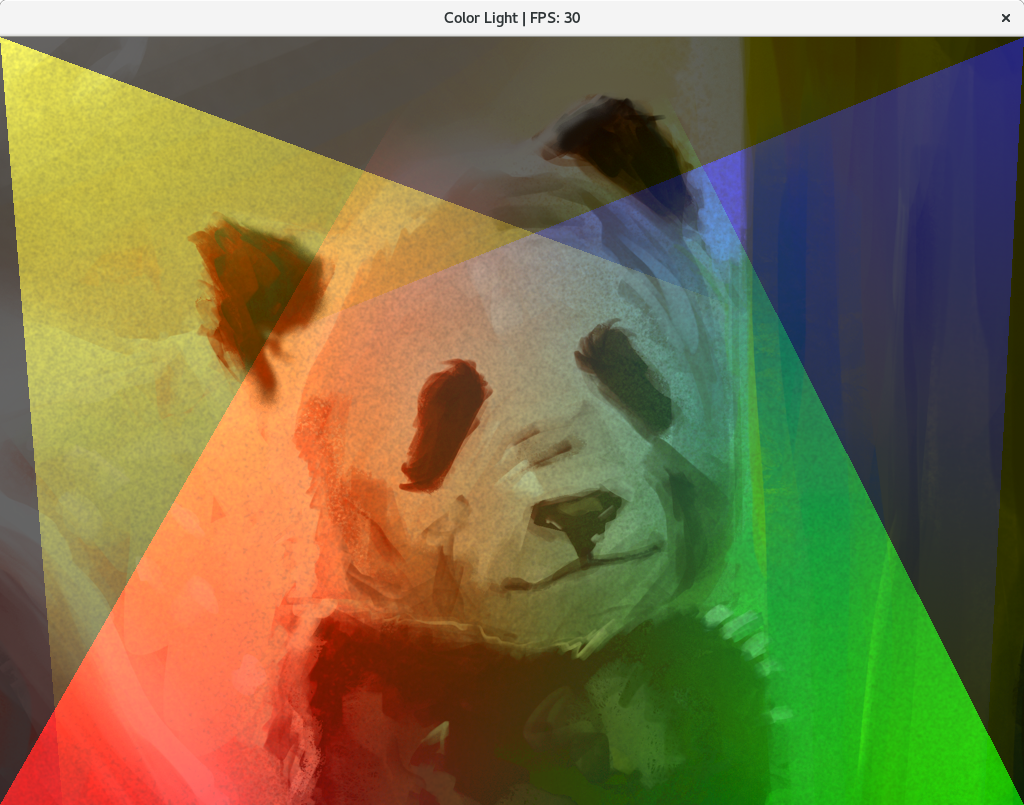
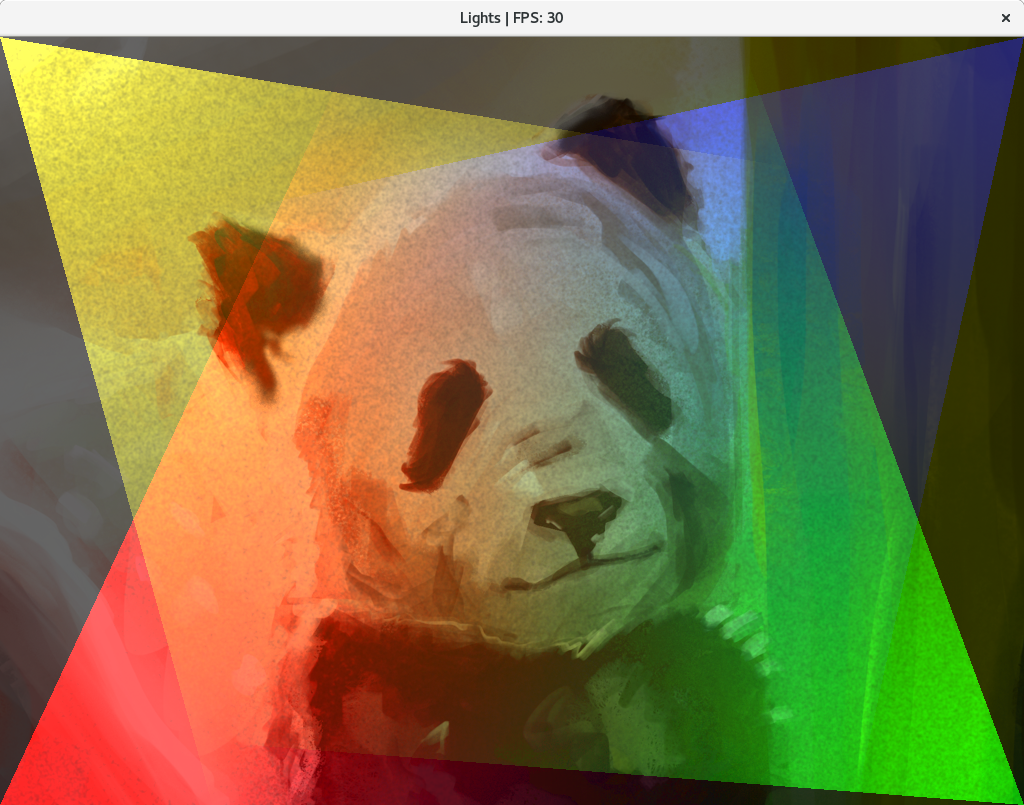
change window title + update screenshot in lights example

Changed region(s): [[0.0, 0.0311, 1.0, 1.0], [0.3438, 0.9317, 1.0, 1.0], [0.4375, 0.0, 0.5625, 0.0311]]

diff --git a/lights/main.go b/lights/main.go
@@ -92,7 +92,7 @@ func run() {
 	}
 
 	cfg := pixelgl.WindowConfig{
-		Title:  "Color Light",
+		Title:  "Lights",
 		Bounds: pixel.R(0, 0, 1024, 768),
 		VSync:  true,
 	}
